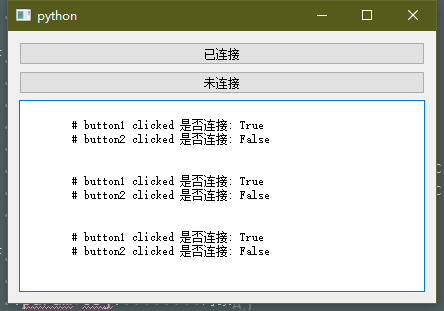
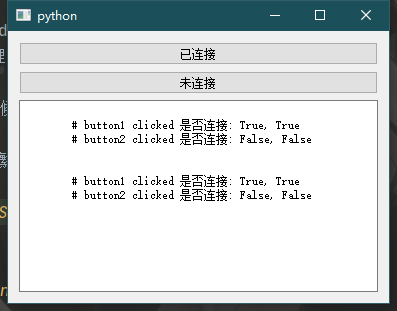
信号连接数量

diff --git a/Demo/IsSignalConnected.py b/Demo/IsSignalConnected.py
@@ -34,11 +34,11 @@ class Window(QWidget):
 
     def doTest(self):
         self.retView.append("""
-        # button1 clicked 是否连接: %s
-        # button2 clicked 是否连接: %s
+        # button1 clicked 是否连接: %s, %s
+        # button2 clicked 是否连接: %s, %s
         """ % (
-            self.isSignalConnected(self.button1, 'clicked()'),
-            self.isSignalConnected(self.button2, 'clicked()')
+            self.isSignalConnected(self.button1, 'clicked()'), self.button1.receivers(self.button1.clicked) > 0,
+            self.isSignalConnected(self.button2, 'clicked()'), self.button2.receivers(self.button2.clicked) > 0,
         ))
 
     def isSignalConnected(self, obj, name):

diff --git a/Demo/README.md b/Demo/README.md
@@ -204,7 +204,8 @@ PyQt 结合 Opencv 进行人脸检测；
 ## 20、判断信号是否连接
 [运行 IsSignalConnected.py](IsSignalConnected.py)
 
-通过 `isSignalConnected` 判断是否连接
+1. 通过 `isSignalConnected` 判断是否连接
+2. 通过对象的 `receivers` 获取连接的数量来判断
 
 ![IsSignalConnected](ScreenShot/IsSignalConnected.png)
 
